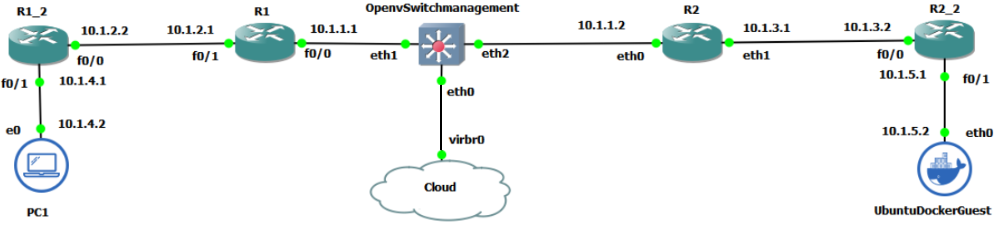
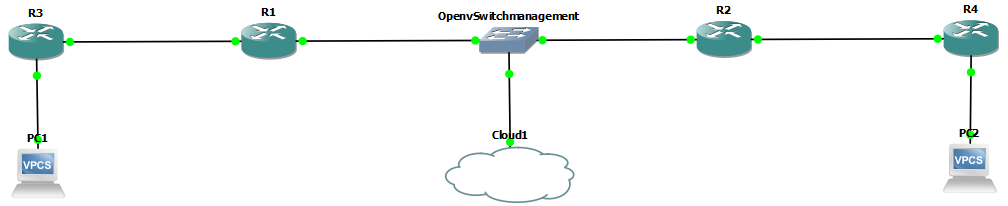
update

diff --git a/SDN-Lab/RedGNS3/REDGNS3.md b/SDN-Lab/RedGNS3/REDGNS3.md
@@ -7,7 +7,7 @@
     - [Configuración de interfaces en enrutadores](#configuración-de-interfaces-en-enrutadores)
     - [Configuración de OSPF en los enrutadores](#configuración-de-ospf-en-los-enrutadores)
     - [Acceso de OpenVSwitch a internet](#acceso-de-openvswitch-a-internet)
-    - [Host](#host)
+    - [Incluir Hosts](#incluir-hosts)
 
 Esta sección establece los procedimientos para descargar y configurar la red GNS3.
 
@@ -240,8 +240,7 @@ Como se muestra en la siguiente figura se debe:
 
 > **Note:**: *Fuera del scope de este ejercicio queda habilitar la salida a internet desde los enrutadores.*
 
-
-### Host
+### Incluir Hosts
 
 El VPSC, disponible por defecto en GNS3, es el hosts que conectaremos al extremo de la red. La configuración a aplicar en este caso es simplemente agregar las IPs en las interfaces que se conectan. 
 
